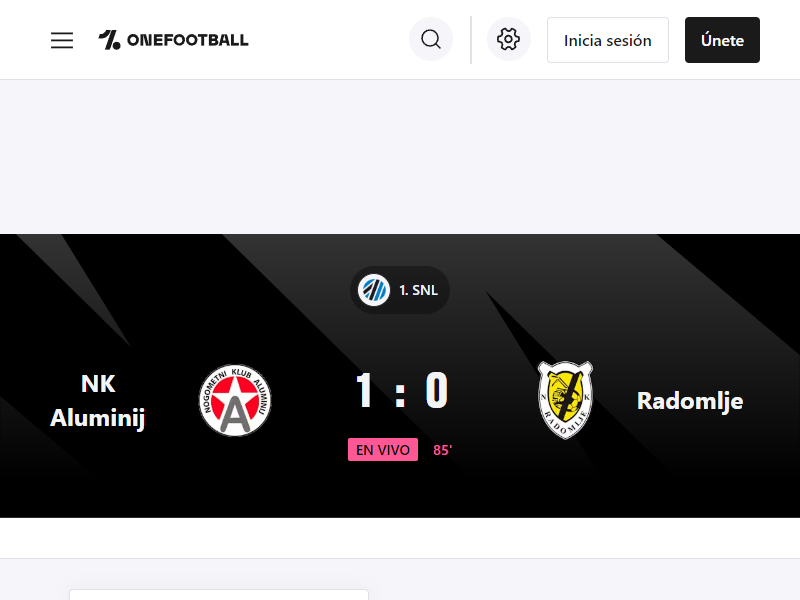
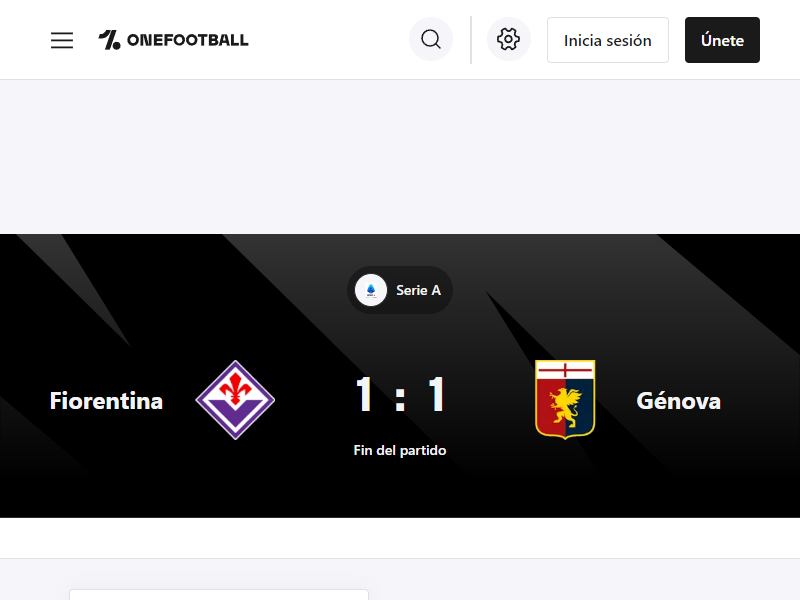
cambios

diff --git a/index.js b/index.js
@@ -5,27 +5,31 @@ import fs from 'fs/promises';
 
 
 //*************************************************************solo marcador de goles********************************
-
+const id = 2407192;
 ( async () => {
     const navegador = await puppeteer.launch({
          //headless: false, //'new',
          //slowMo : 200,
     })
     const pagina = await navegador.newPage()
-    await pagina.goto('https://onefootball.com/es/partido/2398356')
+    await pagina.goto(`https://onefootball.com/es/partido/${id}`)
     
-    const element = await pagina.waitForSelector('#onetrust-accept-btn-handler');
+    const element = await pagina.waitForSelector('#onetrust-accept-btn-handler'); 
     await element.click(); 
                            
     
     const result = await pagina.evaluate(() => {
         // let goles =  document.querySelector('.MatchScore_scores__Hnn5f').innerText
-        let goles =  document.querySelector('.MatchScore_data__ahxqz').innerText
+        
+        let goles =  document.querySelector('.MatchScore_scores__Hnn5f').innerText  
+        let info =  document.querySelector('.MatchScore_data__ahxqz').innerText  
+
 
         
         return {
             
             goles : goles.toString().replace('\n:\n', '-'), 
+            info : info,
             
             
         }
@@ -34,6 +38,7 @@ import fs from 'fs/promises';
     console.log(result)
     
     await fs.writeFile('salida.json', JSON.stringify(result, null, 2))
+
     //await pagina.screenshot({path: 'capturaPantalla1.png'});
     setTimeout(function(){
         pagina.screenshot({path: 'capturaPantalla.png'});
